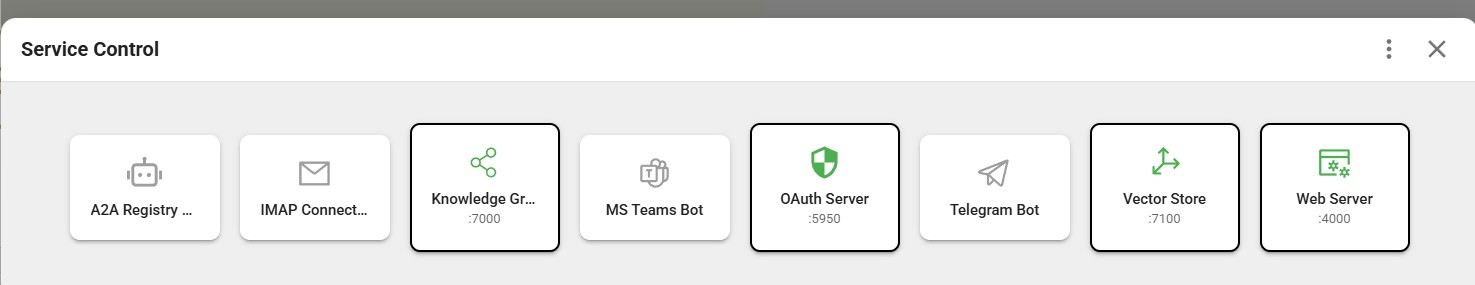
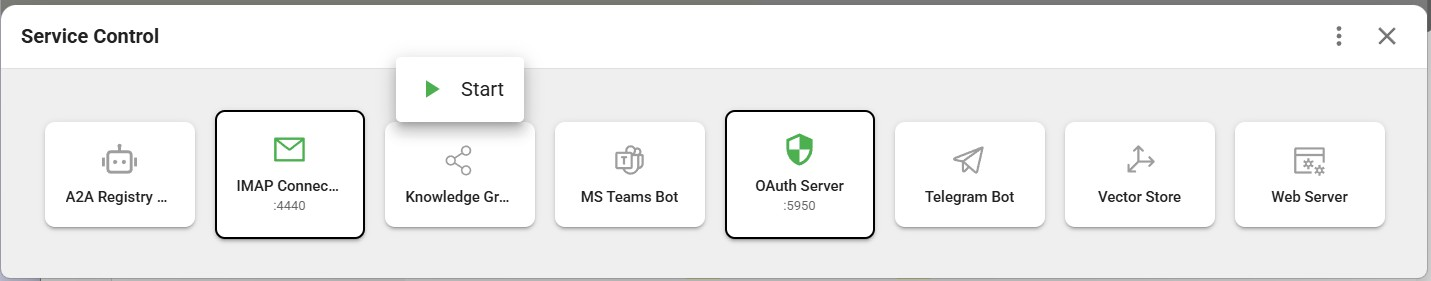
docu filesystem

diff --git a/README.md b/README.md
@@ -59,6 +59,7 @@ Here are the guiding principles for Etienne, and why I believe it matters:
 ## Table of Contents
 
 - [Built around Skills](#built-around-skills)
+- [Focused on local Data and Services](#focused-on-local-data-and-services)
 - [Managed Etienne](#managed-etienne)
 - [Main Components](#main-components)
 - [The Agent and the outside World](#the-agent-and-the-outside-world)
@@ -206,6 +207,53 @@ Etienne also adds practical extensions to the formal standard that business envi
 * **Environment variables** — explicit declarations of which API keys, tokens, or configuration values the skill needs. After installing a skill, a user can securely provide their personal credentials scoped exclusively to their project.
 
 This means IT knows exactly what a skill requires before deployment, and users maintain control over their own credentials and configurations.
+
+# Focused on Data and Local Services
+
+Etienne's data structures are build around the idea of keeping things local and separated. This might be a strange concept of self-containment if you are a cloud developer and your daily-business is dealing with shared services like databases. 
+
+## Workspace & Projects
+
+Etienne expects all the user data inside a single local **workspace directory** (or in case of Docker deployment a single mount). The subdirectories in the workspace are the **projects**. 
+
+While in advanced use cases the agent can work cross-project the default setting for the **coding agent's root directory** is set at project level.
+
+Inside the workspace the usual . convention applies: The user cannot see any internal files or directories starting with a . character.
+
+<div align="center">
+<img src="/docs/images/file-explorer-1.jpg" alt="Filesystem user perspective" width="700">
+</div>
+
+Only the admin role can see these files via the UI:
+
+<div align="center">
+<img src="/docs/images/file-explorer-2.jpg" alt="Filesystem admin perspective" width="700">
+</div>
+
+All relevant settings and data are kept on project level to ensure two features:
+* **Right to forget** if sensitive data was processed inside one project, it will be purged when the directory is deleted
+* **Portability** users can exchange a complete project by simply copying the directory
+
+## Service Control
+
+The user interface provides access to the process-manager API which is responsible of starting/stopping local servers on different ports.
+
+<div align="center">
+<img src="/docs/images/service-control.jpg" alt="Service Control Pane" width="900">
+</div>
+
+This feature is not so much targeted at human usage, but to give the agent the ability to decide which services to ramp up: There is an MCP server with a MCP App(UI) which enables the user to access service control also in the chat pane.
+
+## Project-aware Services
+
+All of the local **services treat projects like tenants**: they store their data (also temp files) in subdirectories of the project folder and serve them from this location.
+
+<div align="center">
+<img src="/docs/images/files-ystem-3.jpg" alt="Service data" width="700">
+</div>
+
+In the example above we can see the RDF store ("knowledge graph") log and data files inside a project's directory.
+
 
 # Managed Etienne
 
